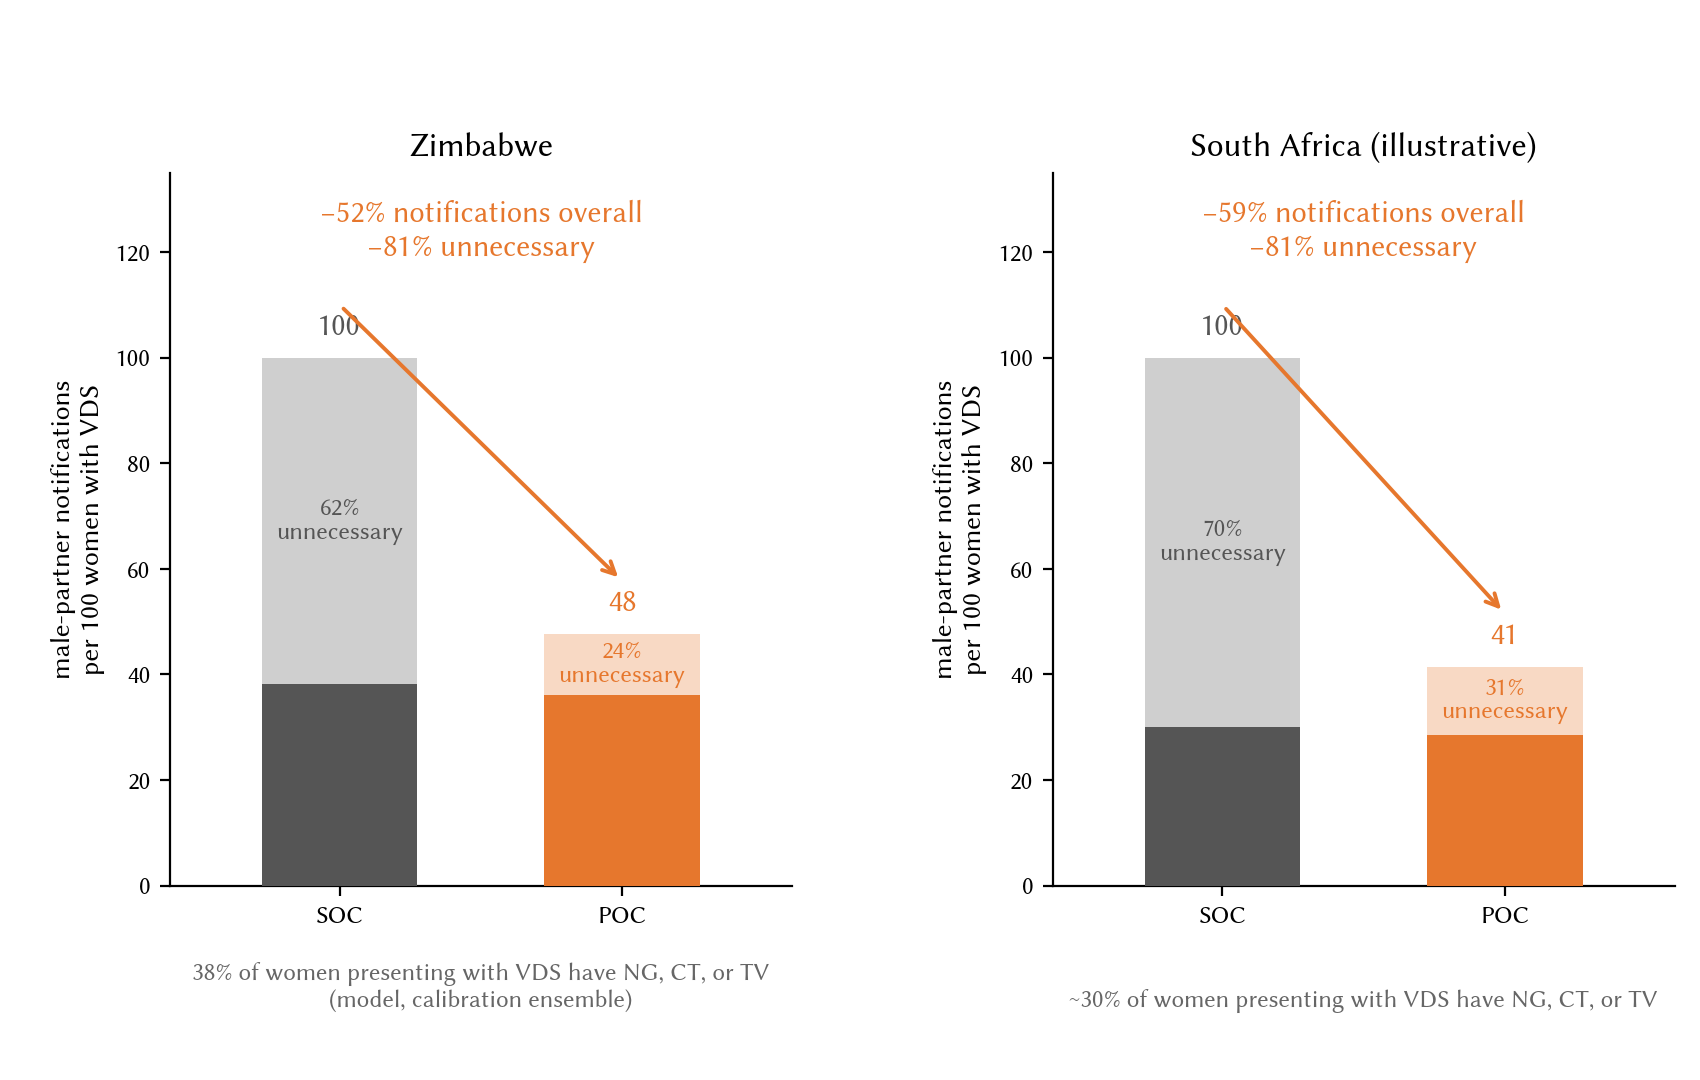
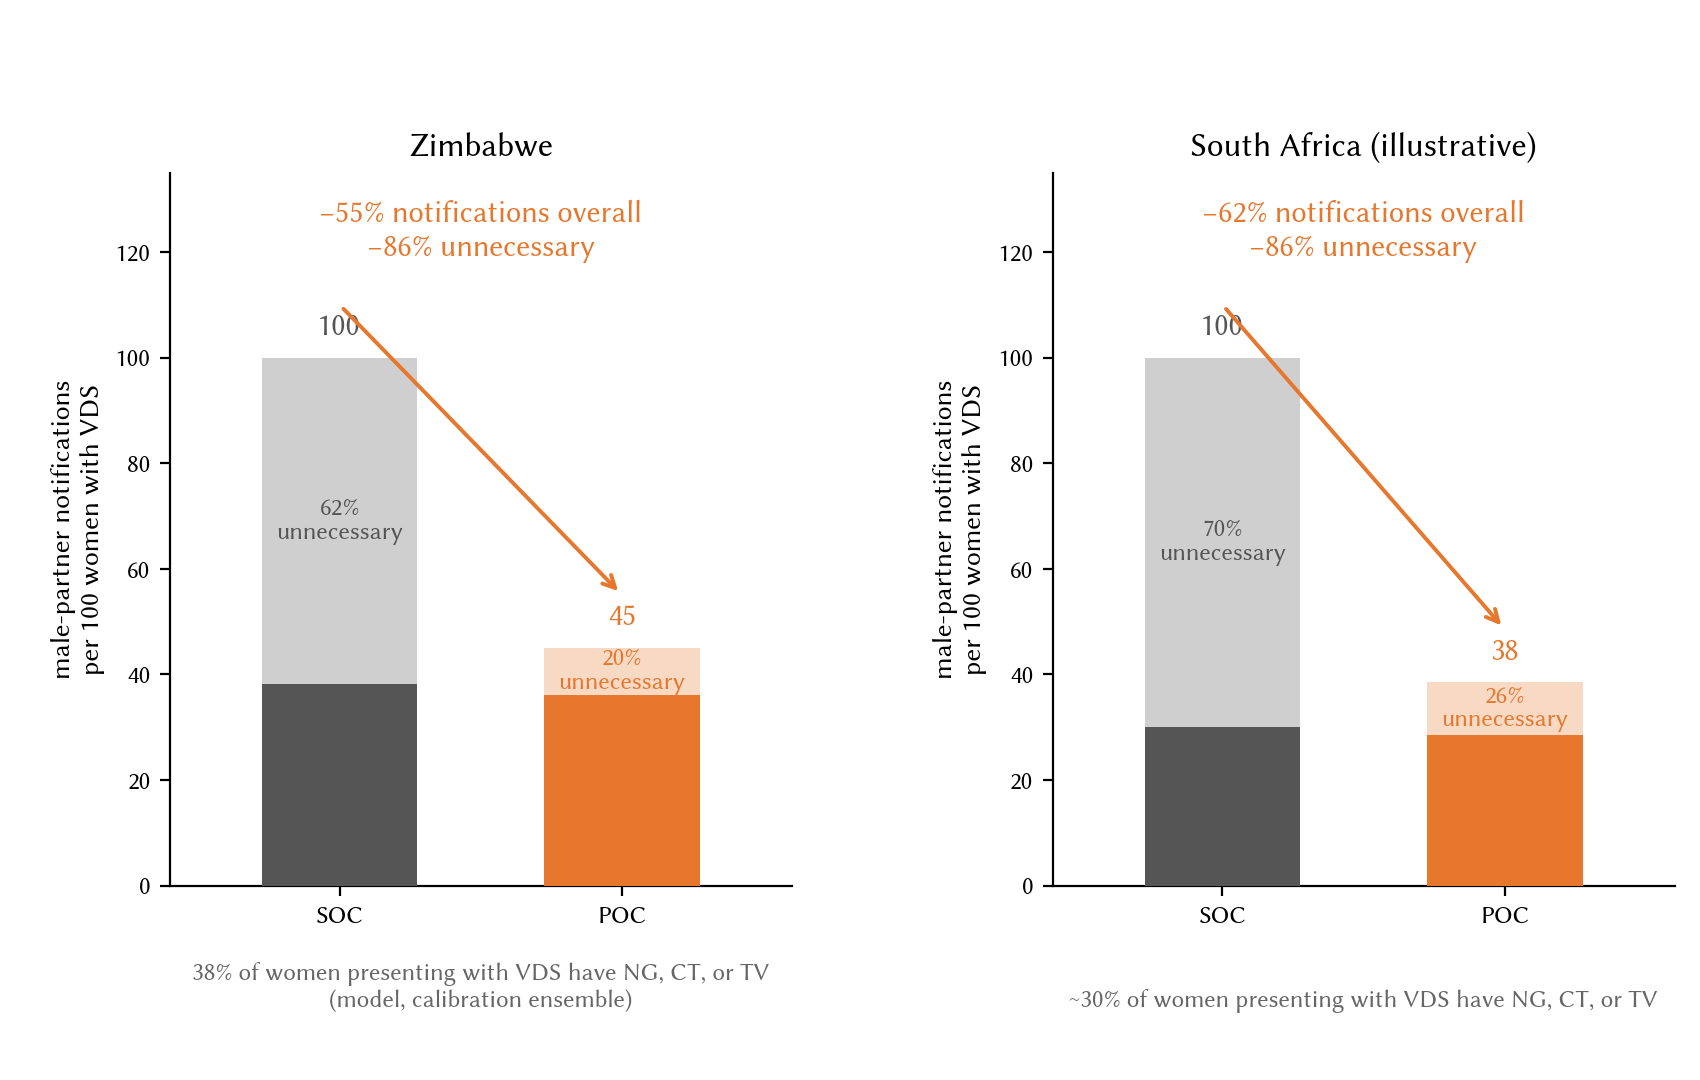
fig: VDS panel is 3-test (NG/CT/TV), not 4 — syph RPR is at PN attendance

diff --git a/plotting/plot_pn_averted_vds.py b/plotting/plot_pn_averted_vds.py
@@ -3,9 +3,9 @@ Zimbabwe (model) and South Africa (illustrative). For R. Peters, WHO STI dept.
 
 Per 100 VDS presenters, decomposes male-partner notifications into warranted
 (index actually has NG/CT/TV) vs unnecessary (false positive on panel, or
-BV/other with no STI). The POC bar reflects a 4-test panel (NG + CT + TV +
-non-trep syph RDT) at per-pathogen sens/spec from this project's dx table.
-A truly STI-negative woman still triggers PN with probability 1 - 0.95^4 ~ 18%.
+BV/other with no STI). The POC bar reflects the 3-test VDS panel (NG + CT + TV)
+at per-pathogen sens/spec from this project's dx table. A truly STI-negative
+woman still triggers PN with probability 1 - 0.95^3 ~ 14%.
 
     conda run -n starsim python plotting/plot_pn_averted_vds.py
 """
@@ -24,7 +24,7 @@ FONT = str(REPO / 'assets' / 'LibertinusSans-Regular.otf')
 
 ARM_C = {'SOC': '#555555', 'POC': '#e6772d'}
 
-POC_SPEC = 0.95  # per pathogen, applied across 4 tests (NG + CT + TV + syph RPR)
+POC_SPEC = 0.95  # per pathogen, applied across 3 VDS tests (NG + CT + TV)
 POC_SENS = 0.95  # average detection for a truly STI+ VDS presenter
 
 # Peters (WHO STI dept, pers. comm.); consistent with SA VDS aetiology
@@ -38,7 +38,7 @@ def read_zim_etiology():
     return 1 - no_sti, no_sti    # is the only bucket with no NG/CT/TV
 
 
-def compound_fp(spec=POC_SPEC, n=4):
+def compound_fp(spec=POC_SPEC, n=3):
     return 1 - spec ** n
 
 
